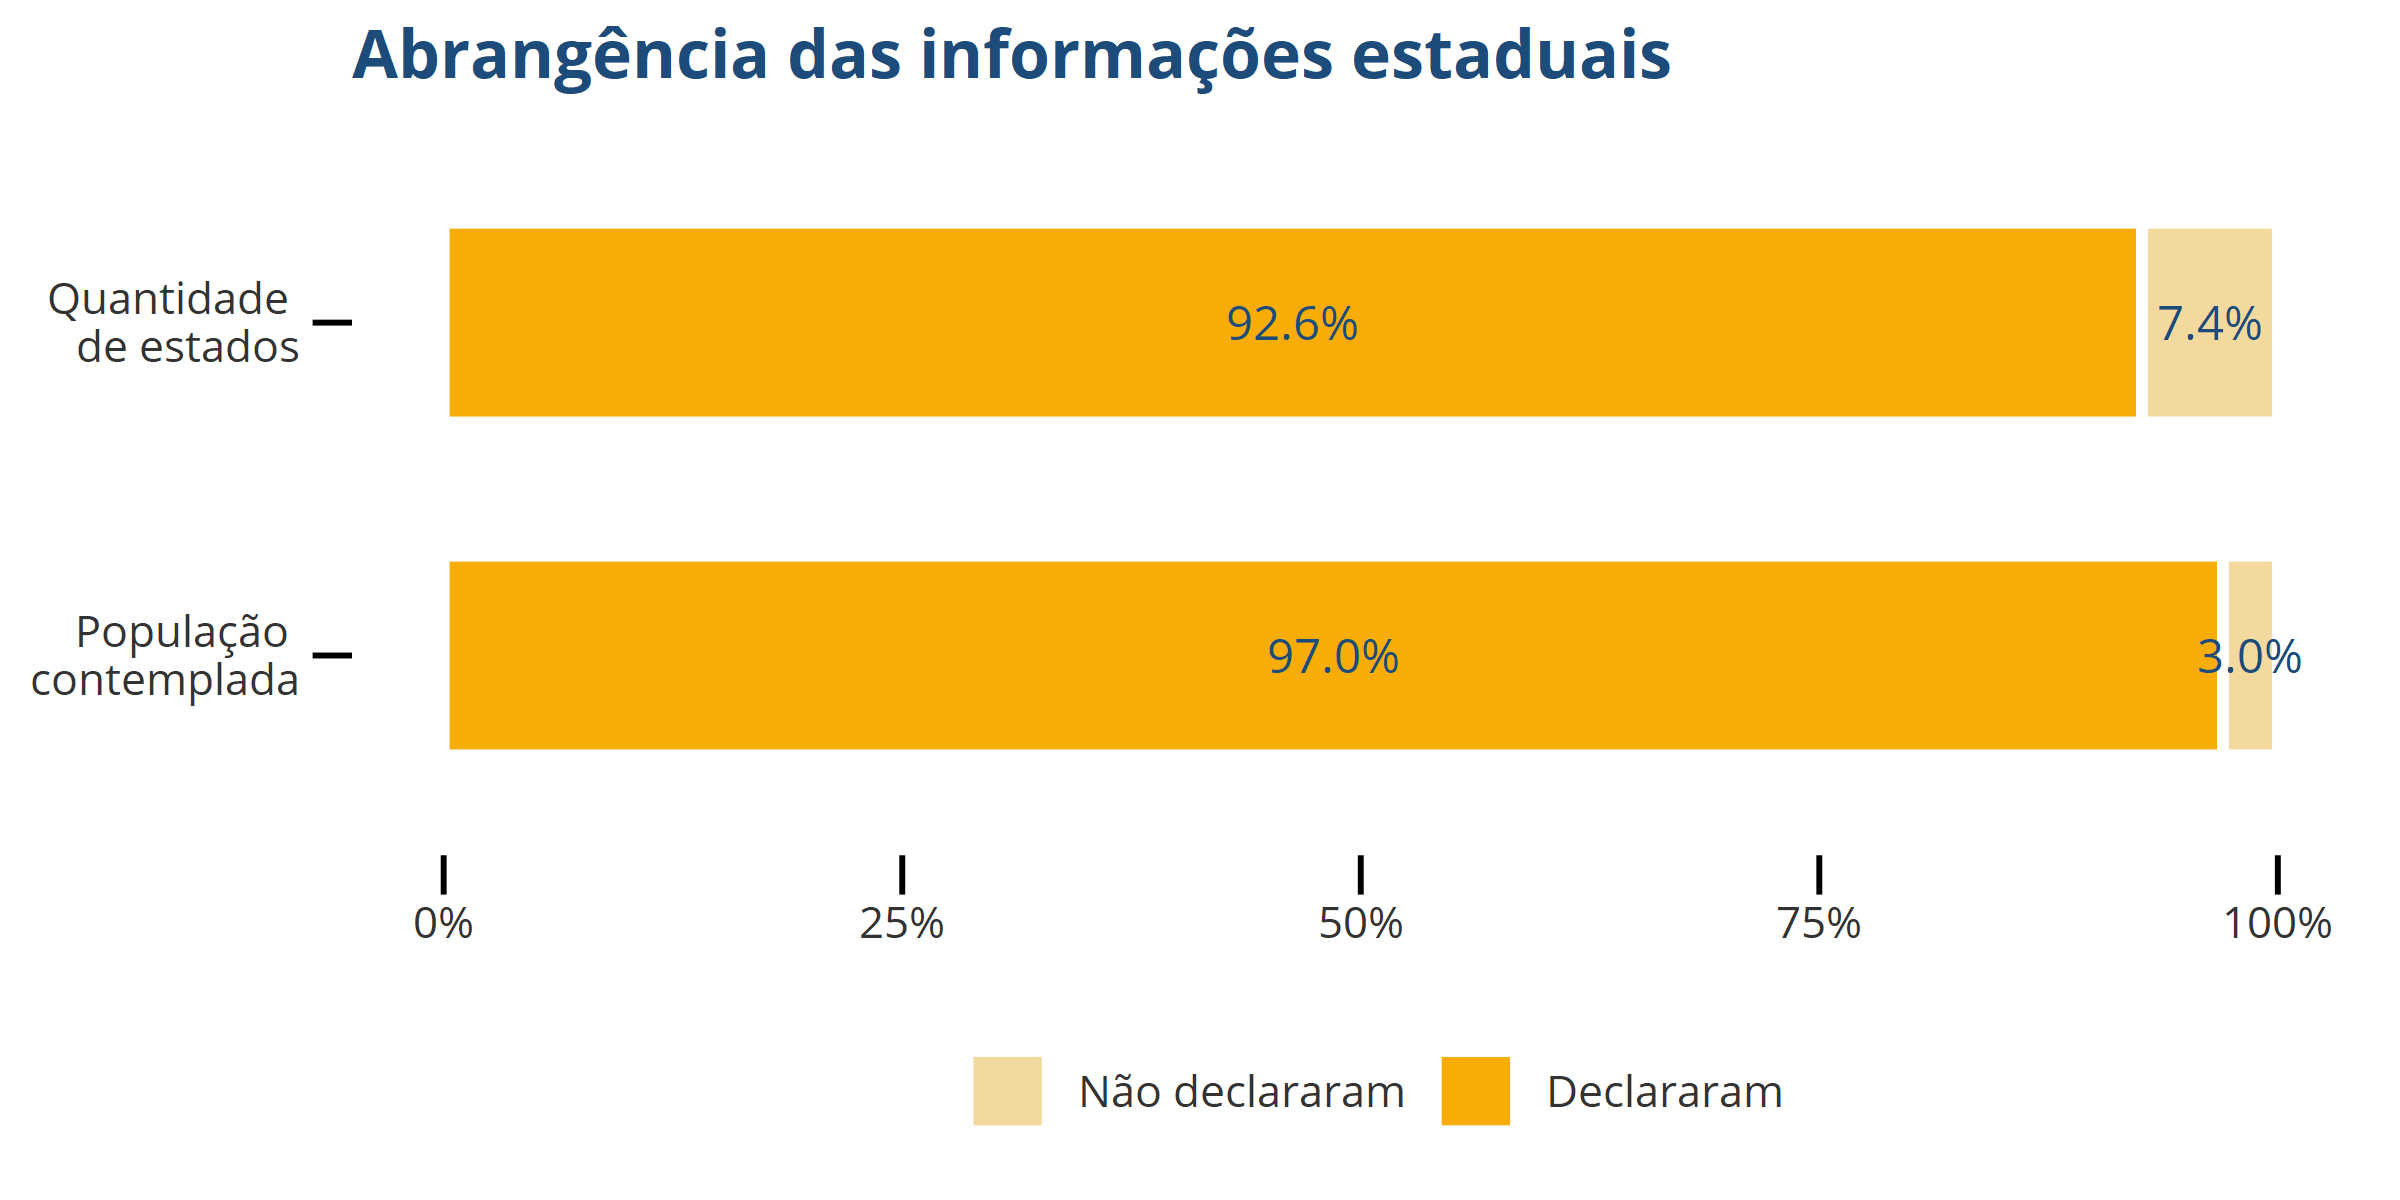
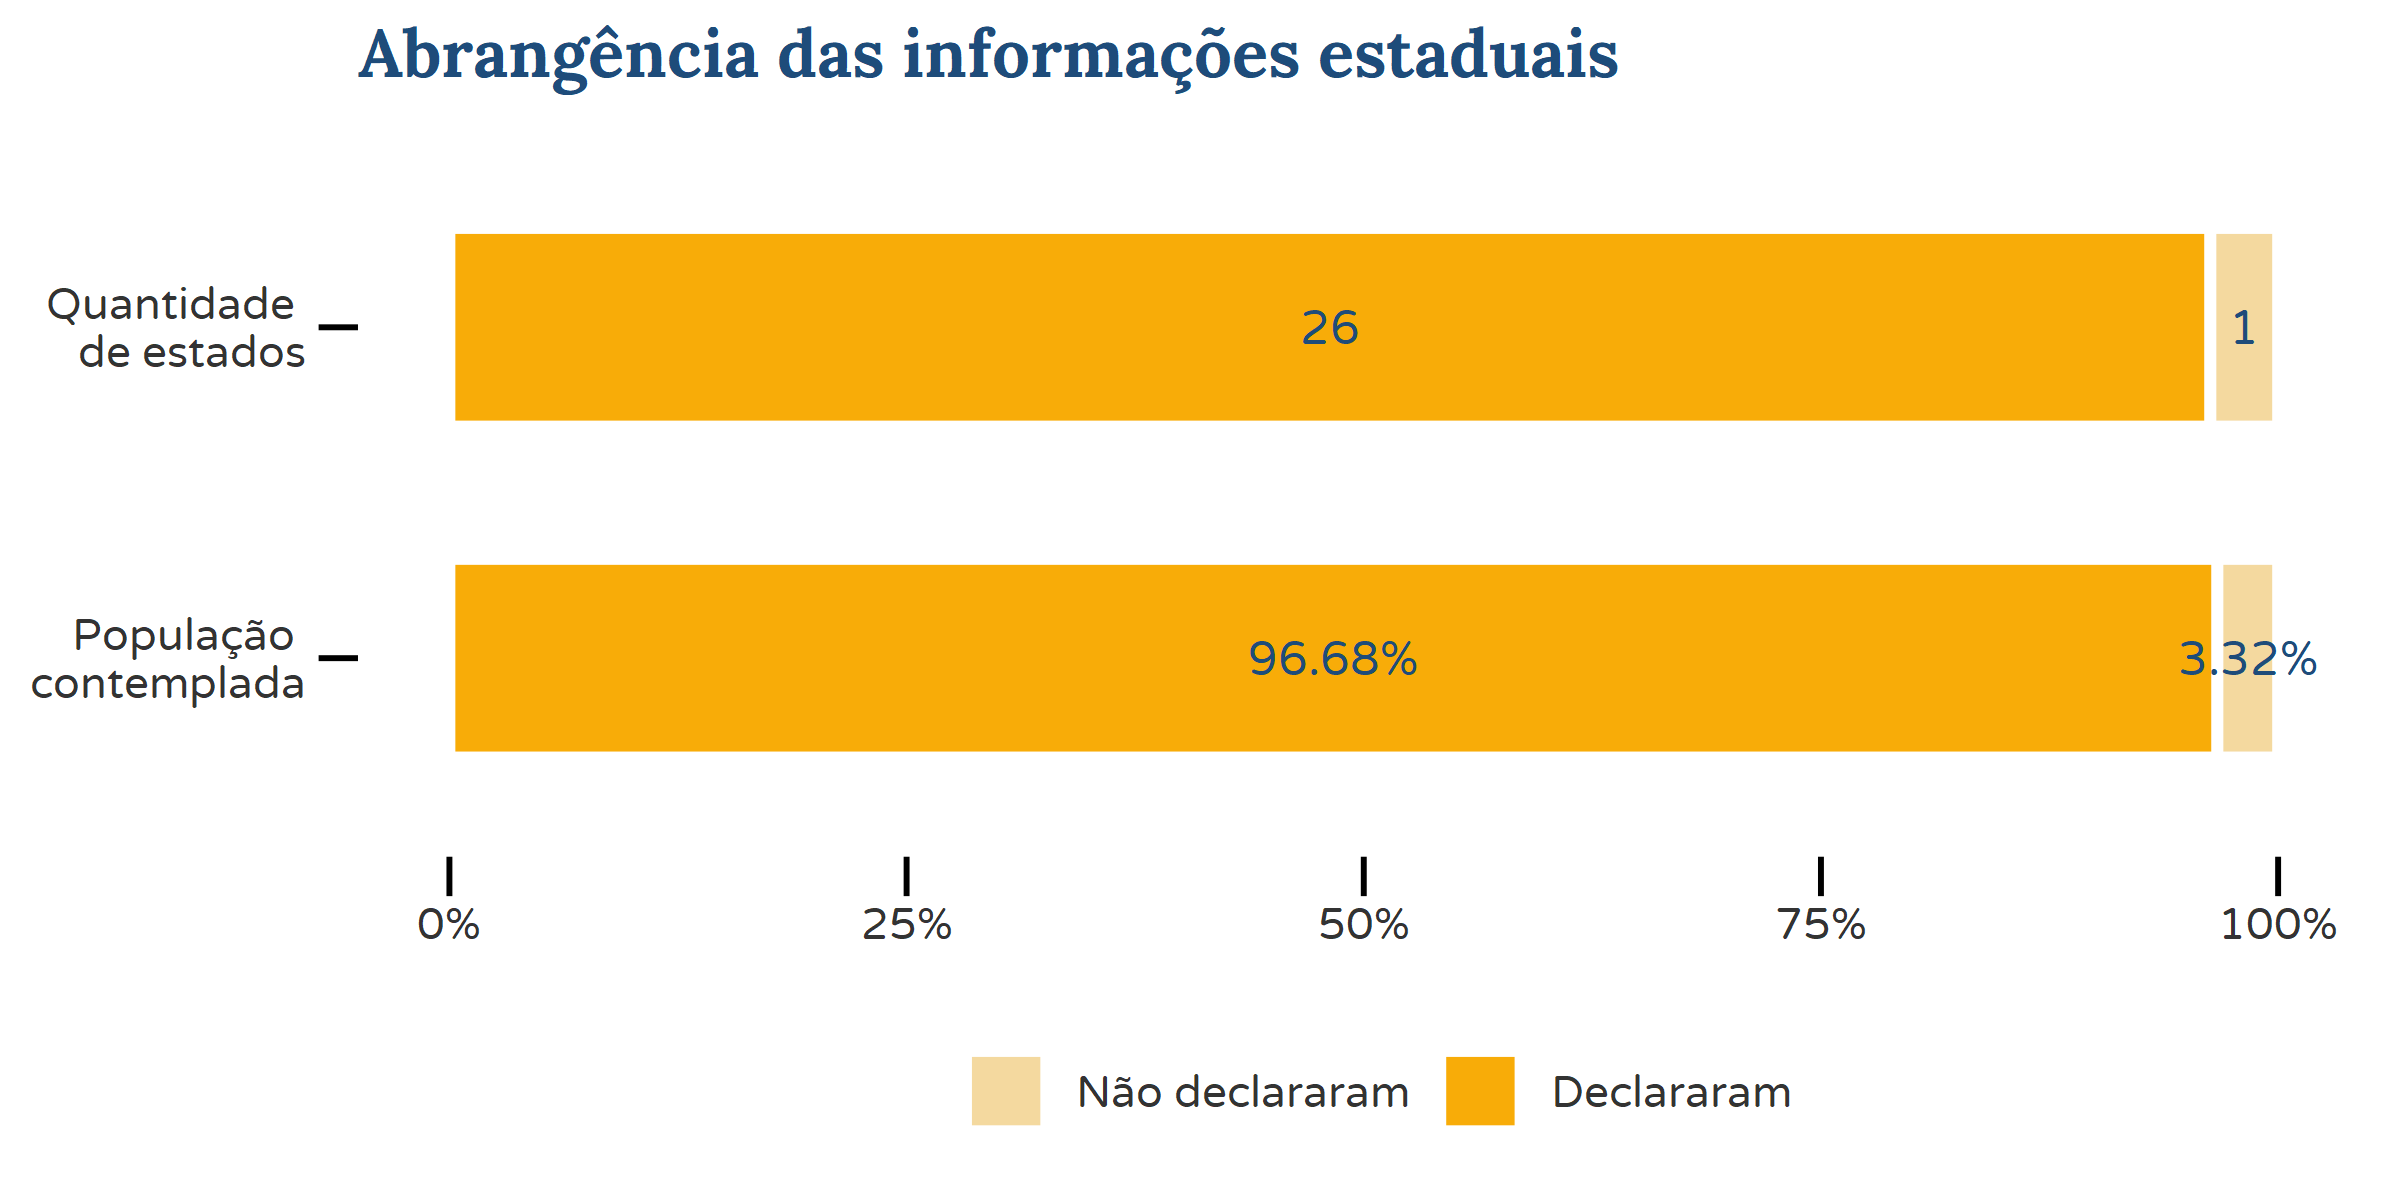
substitui fontes de geom_text(), altera forma de salvar gráficos para ggsave

diff --git a/README.md b/README.md
@@ -5,3 +5,5 @@ Uma história de dados que fala, de modo simples e informal, um pouco sobre dív
 ## Melhorar
 
 Usar aquele componente que o Marteens usou para pesquisar nomes dos municípios.
+
+Em vários gráficos, inverter a ordem da legenda.
